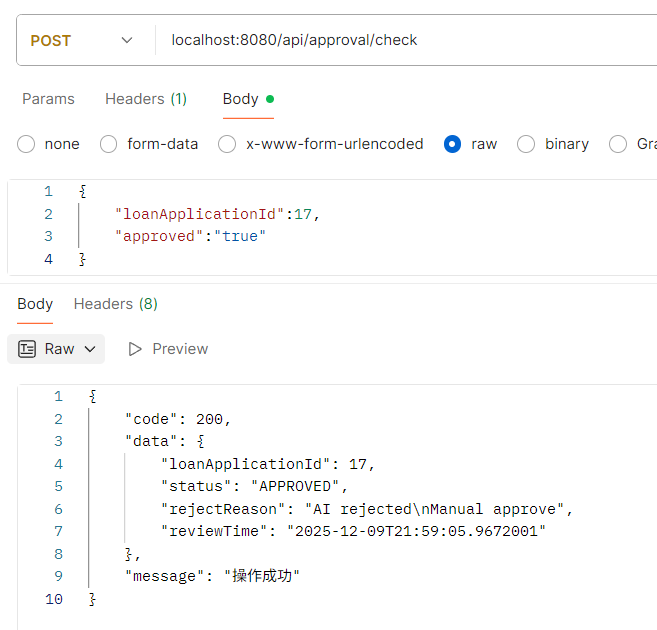
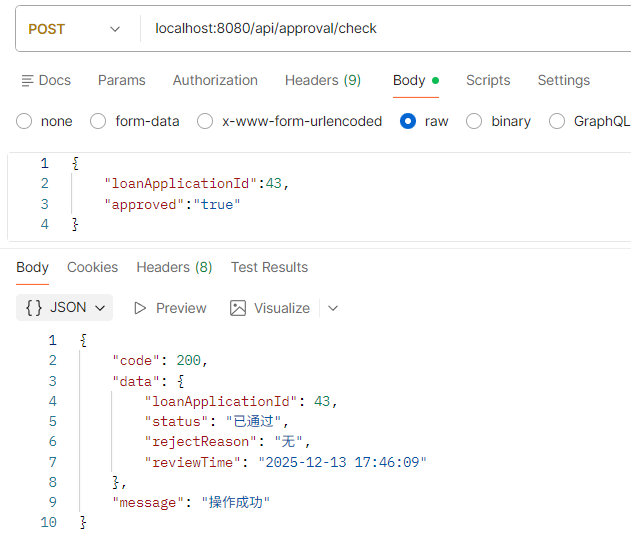
增加查询已办审核的功能

diff --git a/project/backend/personal-loan/src/main/java/com/example/personal_loan/service/impl/ApplicationServiceImpl.java b/project/backend/personal-loan/src/main/java/com/example/personal_loan/service/impl/ApplicationServiceImpl.java
@@ -4,28 +4,33 @@ import java.time.LocalDateTime;
 import java.util.List;
 import java.util.stream.Collectors;
 
-import com.example.personal_loan.config.RabbitMQConfig;
-import com.example.personal_loan.entity.*;
-import com.example.personal_loan.mapper.OutboxMapper;
-import com.fasterxml.jackson.core.JsonProcessingException;
-import com.fasterxml.jackson.databind.ObjectMapper;
-import lombok.extern.slf4j.Slf4j;
 import org.springframework.beans.factory.annotation.Autowired;
 import org.springframework.stereotype.Service;
 import org.springframework.transaction.annotation.Transactional;
 
+import com.example.personal_loan.config.RabbitMQConfig;
 import com.example.personal_loan.dto.AdminGetAppResponse;
 import com.example.personal_loan.dto.ApplicationRequest;
 import com.example.personal_loan.dto.UserGetAppResponse;
+import com.example.personal_loan.entity.LoanApplication;
+import com.example.personal_loan.entity.LoanOption;
+import com.example.personal_loan.entity.LoanProduct;
+import com.example.personal_loan.entity.OutboxMessage;
+import com.example.personal_loan.entity.User;
 import com.example.personal_loan.enums.ApplicationStatus;
 import com.example.personal_loan.exception.BusinessException;
 import com.example.personal_loan.mapper.ApplicationMapper;
 import com.example.personal_loan.mapper.LoanOptionMapper;
 import com.example.personal_loan.mapper.LoanProductMapper;
+import com.example.personal_loan.mapper.OutboxMapper;
 import com.example.personal_loan.service.ApplicationService;
 import com.example.personal_loan.service.AuthService;
 import com.example.personal_loan.service.LoanProductService;
 import com.example.personal_loan.service.UserService;
+import com.fasterxml.jackson.core.JsonProcessingException;
+import com.fasterxml.jackson.databind.ObjectMapper;
+
+import lombok.extern.slf4j.Slf4j;
 
 /**
  * 贷款申请服务实现类
@@ -79,7 +84,7 @@ public class ApplicationServiceImpl implements ApplicationService{
         LoanApplication application = new LoanApplication();
         application.setUserId(userId);
         application.setProductId(request.getProductId());
-        application.setStatus(ApplicationStatus.PENDING);
+        application.setStatus(ApplicationStatus.审核中);
         application.setLoanAmount(option.getLoanAmount());
         application.setInterestRate(option.getInterestRate());
         application.setLoanPeriod(option.getLoanPeriod());
@@ -123,11 +128,11 @@ public class ApplicationServiceImpl implements ApplicationService{
         if (!application.getUserId().equals(userId)) {
             throw new BusinessException(403, "无权操作他人的申请");  // 可选
         }
-        if (!ApplicationStatus.PENDING.equals(application.getStatus())) {
+        if (!ApplicationStatus.审核中.equals(application.getStatus())) {
             throw new BusinessException(400, "仅可撤回待审核的申请");
         }
         // 需要审核？通过后状态变更
-        application.setStatus(ApplicationStatus.CANCELLED);
+        application.setStatus(ApplicationStatus.已取消);
         applicationMapper.update(application);
     }
 

diff --git a/project/backend/personal-loan/src/main/java/com/example/personal_loan/service/impl/ManualApproveServiceImpl.java b/project/backend/personal-loan/src/main/java/com/example/personal_loan/service/impl/ManualApproveServiceImpl.java
@@ -34,7 +34,7 @@ public class ManualApproveServiceImpl implements ManualApproveService{
     @Autowired
     private UserService userService;
 
-    // 获得本审核员所有需审核申请
+    // 获得本审核员所有代办审核申请
     @Override
     public List<PendingApprovalResponse> getApproves(Long userId){
         // 权限校验
@@ -57,6 +57,7 @@ public class ManualApproveServiceImpl implements ManualApproveService{
         return applicationMapper.getApplicationDetail(loanApplicationId);
     }
 
+    // 返回审核结果
     @Override
     @Transactional
     public ManualCheckResponse manualCheck(Long loanApplicationId, Boolean approved, String manualRejectReason){
@@ -71,16 +72,11 @@ public class ManualApproveServiceImpl implements ManualApproveService{
 
         if (approved) {
             // 人工通过
-            StringBuilder reasonBuilder = new StringBuilder();
-            if (currentRejectReason != null && !currentRejectReason.trim().isEmpty()) {
-                reasonBuilder.append(currentRejectReason);
-            }
-            reasonBuilder.append("Manual approve");
-            application.setRejectReason(reasonBuilder.toString());
-            newStatus = ApplicationStatus.APPROVED;
+            application.setRejectReason("无");
+            newStatus = ApplicationStatus.已通过;
             application.setReviewTime(LocalDateTime.now());
             response.setReviewTime(LocalDateTime.now());
-            response.setRejectReason(reasonBuilder.toString());
+            response.setRejectReason("无");
 
             // 创建订单
             Order order = new Order();
@@ -106,13 +102,13 @@ public class ManualApproveServiceImpl implements ManualApproveService{
                 reasonBuilder.append(currentRejectReason);
             }
             if (manualRejectReason != null && !manualRejectReason.trim().isEmpty()) {
-                reasonBuilder.append("人工拒绝: ").append(manualRejectReason);
+                reasonBuilder.append("人工审核未通过: ").append(manualRejectReason);
             } else {
-                reasonBuilder.append("人工拒绝: 未填写原因");
+                reasonBuilder.append("人工审核未通过: 未填写原因");
             }
             application.setRejectReason(reasonBuilder.toString());
             response.setRejectReason(reasonBuilder.toString());
-            newStatus = ApplicationStatus.MANUAL_REJECTED;
+            newStatus = ApplicationStatus.人工拒绝;
         }
 
         application.setStatus(newStatus);
@@ -123,4 +119,16 @@ public class ManualApproveServiceImpl implements ManualApproveService{
 
         return response;
     }
+
+    // 获取已办审核列表
+    @Override
+    public List<PendingApprovalResponse> completedApproves(Long userId){
+        // 权限校验
+        User admin = userService.getUserById(userId);
+        if (!admin.getRole().equals(1)) {
+            throw new BusinessException(403, "无权限查看代办审核列表");
+        }
+        return applicationMapper.listCompletedApprovals();
+    }
+
 }

diff --git a/project/backend/personal-loan/src/main/java/com/example/personal_loan/mapper/ApplicationMapper.java b/project/backend/personal-loan/src/main/java/com/example/personal_loan/mapper/ApplicationMapper.java
@@ -90,10 +90,28 @@ public interface ApplicationMapper {
         "FROM loan_applications la",
         "JOIN users u ON la.user_id = u.id",
         "JOIN loan_products lp ON la.product_id = lp.id",
-        "WHERE la.status = 'AI_REJECTED' ",
+        "WHERE la.status = 'AI拒绝' ",
         "ORDER BY la.apply_time DESC"
     })
     List<PendingApprovalResponse> listPendingApprovals();
 
     ApplicationDetailResponse getApplicationDetail(@Param("loanApplicationId") Long loanApplicationId);
+
+    @Select({
+        "SELECT",
+        "  la.id AS applicationId,",
+        "  u.user_name AS userName,",
+        "  lp.product_name AS productName,",
+        "  la.loan_amount AS loanAmount,",
+        "  la.loan_period AS loanPeriod,",
+        "  la.term AS term,",
+        "  la.apply_time AS applyTime,",
+        "  la.reject_reason AS rejectReason",
+        "FROM loan_applications la",
+        "JOIN users u ON la.user_id = u.id",
+        "JOIN loan_products lp ON la.product_id = lp.id",
+        "WHERE la.status = '已通过' OR la.status = '人工拒绝' ",
+        "ORDER BY la.apply_time DESC"
+    })
+    List<PendingApprovalResponse> listCompletedApprovals();
 }

diff --git a/project/backend/personal-loan/src/main/java/com/example/personal_loan/service/impl/AIApproveServiceImpl.java b/project/backend/personal-loan/src/main/java/com/example/personal_loan/service/impl/AIApproveServiceImpl.java
@@ -35,8 +35,8 @@ public class AIApproveServiceImpl implements AIApproveService {
     public Boolean AICheck(LoanApplication application) {
         if (new Random().nextInt(100) < 50) {
             // AI审核成功
-            application.setStatus(ApplicationStatus.APPROVED);
-            application.setRejectReason("AI approve\n");
+            application.setStatus(ApplicationStatus.已通过);
+            application.setRejectReason("无");
             application.setReviewTime(LocalDateTime.now());
             applicationMapper.update(application);
 
@@ -63,8 +63,8 @@ public class AIApproveServiceImpl implements AIApproveService {
         }
         else {
             // AI审核失败
-            application.setStatus(ApplicationStatus.AI_REJECTED);
-            application.setRejectReason("AI rejected\n");
+            application.setStatus(ApplicationStatus.AI拒绝);
+            application.setRejectReason("AI审核未通过\n");
             applicationMapper.update(application);
             log.info("AI reject success");
             return false;

diff --git a/project/backend/personal-loan/src/main/java/com/example/personal_loan/controller/ManualApproveController.java b/project/backend/personal-loan/src/main/java/com/example/personal_loan/controller/ManualApproveController.java
@@ -38,6 +38,14 @@ public class ManualApproveController {
         return ResponseEntity.ok(ApiResponse.success(list));
     }
 
+    @GetMapping("/completed")
+    public ResponseEntity<ApiResponse<List<PendingApprovalResponse>>> getCompletedApprovals(HttpServletRequest request) {
+        Long userId = (Long) request.getAttribute("userId");
+        log.info("/api/approval/completed success called for admin {} to get completed approvals list", userId);
+        List<PendingApprovalResponse> list = manualApproveService.completedApproves(userId);
+        return ResponseEntity.ok(ApiResponse.success(list));
+    }
+
     @GetMapping("/detail/{loanApplicationId}")
     public ResponseEntity<ApiResponse<ApplicationDetailResponse>> getApplicationDetail(
             HttpServletRequest request,

diff --git a/project/backend/personal-loan/src/main/java/com/example/personal_loan/entity/LoanProduct.java b/project/backend/personal-loan/src/main/java/com/example/personal_loan/entity/LoanProduct.java
@@ -3,6 +3,7 @@ package com.example.personal_loan.entity;
 import java.time.LocalDateTime;
 
 import com.example.personal_loan.enums.ProductStatus;
+import com.fasterxml.jackson.annotation.JsonFormat;
 
 import jakarta.validation.constraints.Min;
 import jakarta.validation.constraints.NotBlank;
@@ -46,7 +47,9 @@ public class LoanProduct {
     @Size(max = 1000, message = "促销详情不能超过1000个字符")
     private String promotionDetails;
 
+    @JsonFormat(pattern = "yyyy-MM-dd HH:mm:ss")
     private LocalDateTime createTime;
+    @JsonFormat(pattern = "yyyy-MM-dd HH:mm:ss")
     private LocalDateTime updateTime;
 
     public LoanProduct(String productName, int minTerm, int maxTerm, int termStep, String promotionDetails) {

diff --git a/project/backend/personal-loan/src/main/java/com/example/personal_loan/dto/UserGetAppResponse.java b/project/backend/personal-loan/src/main/java/com/example/personal_loan/dto/UserGetAppResponse.java
@@ -5,6 +5,7 @@ import java.time.LocalDateTime;
 
 import com.example.personal_loan.enums.ApplicationStatus;
 import com.example.personal_loan.enums.RepaidType;
+import com.fasterxml.jackson.annotation.JsonFormat;
 
 import lombok.AllArgsConstructor;
 import lombok.Data;
@@ -24,9 +25,11 @@ public class UserGetAppResponse {
     private RepaidType repaidType;   // 还款方式
     private ApplicationStatus status; 
 
+    @JsonFormat(pattern = "yyyy-MM-dd HH:mm:ss")
     private LocalDateTime applyTime;
     
     // 通过时间，状态为APPROVED时返回
+    @JsonFormat(pattern = "yyyy-MM-dd HH:mm:ss")
     private LocalDateTime reviewTime;
 
     // 可选：拒绝原因（仅当状态为拒绝时返回）

diff --git a/project/backend/personal-loan/src/main/java/com/example/personal_loan/dto/BlackListDto.java b/project/backend/personal-loan/src/main/java/com/example/personal_loan/dto/BlackListDto.java
@@ -2,6 +2,8 @@ package com.example.personal_loan.dto;
 
 import java.time.LocalDateTime;
 
+import com.fasterxml.jackson.annotation.JsonFormat;
+
 import lombok.AllArgsConstructor;
 import lombok.Data;
 import lombok.NoArgsConstructor;
@@ -15,7 +17,11 @@ public class BlackListDto {
     private String userName;
     private String phone;
     private Integer blackLevel;
+    
+    @JsonFormat(pattern = "yyyy-MM-dd HH:mm:ss")
     private LocalDateTime createTime;  //加入时间
+    @JsonFormat(pattern = "yyyy-MM-dd HH:mm:ss")
     private LocalDateTime updateTime;
+    @JsonFormat(pattern = "yyyy-MM-dd HH:mm:ss")
     private LocalDateTime removeTime;   //解除时间
 }

diff --git a/project/backend/personal-loan/src/main/java/com/example/personal_loan/dto/AdminGetAppResponse.java b/project/backend/personal-loan/src/main/java/com/example/personal_loan/dto/AdminGetAppResponse.java
@@ -5,6 +5,7 @@ import java.time.LocalDateTime;
 
 import com.example.personal_loan.enums.ApplicationStatus;
 import com.example.personal_loan.enums.RepaidType;
+import com.fasterxml.jackson.annotation.JsonFormat;
 
 import lombok.AllArgsConstructor;
 import lombok.Data;
@@ -26,7 +27,10 @@ public class AdminGetAppResponse {
     private Integer term;
     private RepaidType repaidType;
     private ApplicationStatus status;
+
+    @JsonFormat(pattern = "yyyy-MM-dd HH:mm:ss")
     private LocalDateTime applyTime;
+    @JsonFormat(pattern = "yyyy-MM-dd HH:mm:ss")
     private LocalDateTime reviewTime;
     private String rejectReason;
 }

diff --git a/project/backend/personal-loan/src/main/java/com/example/personal_loan/dto/UserGetOrderResponse.java b/project/backend/personal-loan/src/main/java/com/example/personal_loan/dto/UserGetOrderResponse.java
@@ -5,6 +5,7 @@ import java.time.LocalDateTime;
 
 import com.example.personal_loan.enums.OrderStatus;
 import com.example.personal_loan.enums.RepaidType;
+import com.fasterxml.jackson.annotation.JsonFormat;
 
 import lombok.AllArgsConstructor;
 import lombok.Data;
@@ -25,6 +26,7 @@ public class UserGetOrderResponse {
     private BigDecimal interestRate;    // 年化利率（%）
     private Integer loanPeriod;         // 年限
     private RepaidType repaidType;      // 还款方式如 "等额本息"
+    @JsonFormat(pattern = "yyyy-MM-dd HH:mm:ss")
     private LocalDateTime startTime;    // 放款时间
 
     // 状态相关

diff --git a/project/backend/personal-loan/src/main/java/com/example/personal_loan/entity/User.java b/project/backend/personal-loan/src/main/java/com/example/personal_loan/entity/User.java
@@ -2,6 +2,8 @@ package com.example.personal_loan.entity;
 
 import java.time.LocalDateTime;
 
+import com.fasterxml.jackson.annotation.JsonFormat;
+
 import jakarta.validation.constraints.NotBlank;
 import jakarta.validation.constraints.Pattern;
 import jakarta.validation.constraints.Size;
@@ -35,8 +37,10 @@ public class User {
     // 用户权限 (0是客户)
     private Integer role;
 
+    @JsonFormat(pattern = "yyyy-MM-dd HH:mm:ss")
     private LocalDateTime createTime;
 
+    @JsonFormat(pattern = "yyyy-MM-dd HH:mm:ss")
     private LocalDateTime updateTime;
 
     public User(String name, String password, String phone) {

diff --git a/project/backend/personal-loan/src/main/java/com/example/personal_loan/dto/AdminGetProDetailResponse.java b/project/backend/personal-loan/src/main/java/com/example/personal_loan/dto/AdminGetProDetailResponse.java
@@ -5,6 +5,7 @@ import java.util.List;
 
 import com.example.personal_loan.entity.LoanOption;
 import com.example.personal_loan.enums.ProductStatus;
+import com.fasterxml.jackson.annotation.JsonFormat;
 
 import lombok.AllArgsConstructor;
 import lombok.Data;
@@ -23,7 +24,9 @@ public class AdminGetProDetailResponse {
     private String promotionDetails;
     private ProductStatus status;
 
+    @JsonFormat(pattern = "yyyy-MM-dd HH:mm:ss")
     private LocalDateTime createTime;
+    @JsonFormat(pattern = "yyyy-MM-dd HH:mm:ss")
     private LocalDateTime updateTime;
 
     private List<LoanOption> options;
